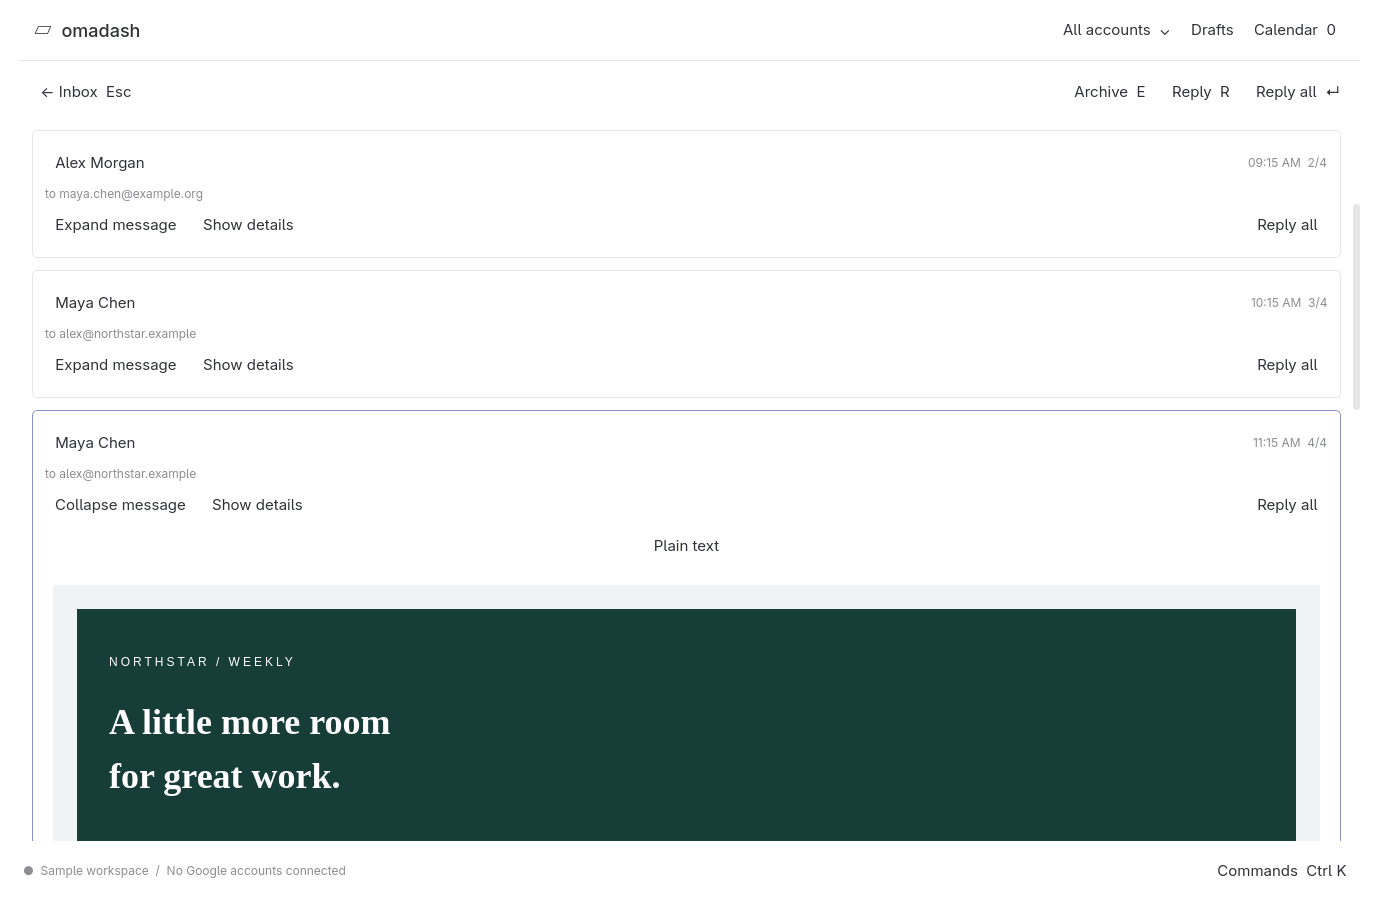
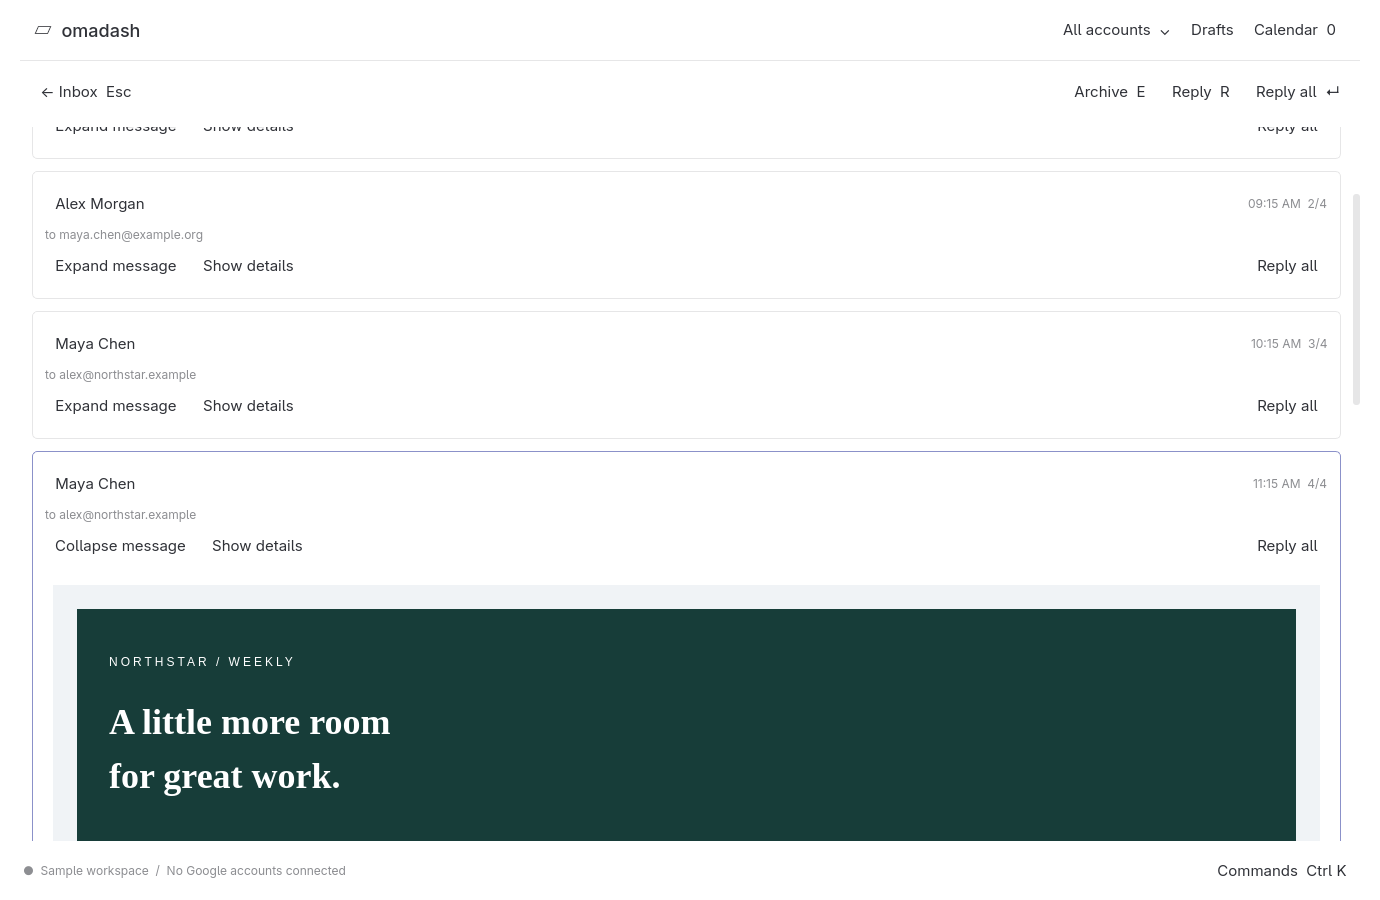
Remove email text and formatted view toggle

diff --git a/src/window.cpp b/src/window.cpp
@@ -64,12 +64,12 @@ void OmadashWindow::refreshInbox(){int old=inbox->currentRow();QString error;row
 void OmadashWindow::switchSplit(int i){if(i<0)return;bool reload=live&&view!="inbox";split=tabs->tabData(i).toString();view="inbox";threadIndex=-1;pages->setCurrentIndex(0);inbox->setCurrentRow(0);refreshInbox();if(reload)loadGoogle();inbox->setFocus();}
 OmadashWindow::Context OmadashWindow::context()const{return {pages->currentIndex(),threadIndex,messageIndex,inbox->currentRow(),view,query,draftId};}
 void OmadashWindow::restore(const Context&c){threadIndex=c.thread;messageIndex=c.message;view=c.view;query=c.query;draftId=c.draft;searchInput->setText(query);refreshInbox();inbox->setCurrentRow(c.row);if(c.page==1)buildReader();else if(c.page==2){clearLayout(composeLayout);auto*backRow=new QHBoxLayout;backRow->addWidget(button("← Back  Esc",[this]{back();}));backRow->addStretch();backRow->addWidget(button("Search mail  /",[this]{search();}));composeLayout->addLayout(backRow);composeLayout->addWidget(composer(),1);pages->setCurrentIndex(2);}else pages->setCurrentIndex(0);}
-void OmadashWindow::openThread(int index){++attachmentGeneration;if(index<0||index>=store.threads.size())return;persistDraft();threadIndex=index;auto t=store.threads[index].toObject();if(!live)t["unread"]=false;store.threads[index]=t;messageIndex=t["messages"].toArray().size()-1;expanded={messageIndex};headers.clear();plainMessages.clear();draftId.clear();buildReader();pages->setCurrentIndex(1);selectMessage(messageIndex);save();}
+void OmadashWindow::openThread(int index){++attachmentGeneration;if(index<0||index>=store.threads.size())return;persistDraft();threadIndex=index;auto t=store.threads[index].toObject();if(!live)t["unread"]=false;store.threads[index]=t;messageIndex=t["messages"].toArray().size()-1;expanded={messageIndex};headers.clear();draftId.clear();buildReader();pages->setCurrentIndex(1);selectMessage(messageIndex);save();}
 void OmadashWindow::selectMessage(int i){if(threadIndex<0)return;int max=store.threads[threadIndex].toObject()["messages"].toArray().size()-1;messageIndex=qBound(0,i,max);for(int n=0;n<cards.size();++n){cards[n]->setProperty("selected",n==messageIndex);cards[n]->style()->unpolish(cards[n]);cards[n]->style()->polish(cards[n]);}if(messageIndex<cards.size()){cards[messageIndex]->setFocus();threadScroll->ensureWidgetVisible(cards[messageIndex],0,20);}}
 void OmadashWindow::buildReader(){persistDraft();toEdit=nullptr;bodyEdit=nullptr;clearLayout(threadLayout);cards.clear();auto*bar=new QHBoxLayout;bar->setContentsMargins(10,12,10,12);bar->addWidget(button(view=="search"?"← Results  Esc":"← Inbox  Esc",[this]{back();}));bar->addStretch();bar->addWidget(button("Archive  E",[this]{change("archive");}));bar->addWidget(button("Reply  R",[this]{compose("reply");}));bar->addWidget(button("Reply all  ↵",[this]{compose("reply-all");}));threadLayout->addLayout(bar);threadScroll=new QScrollArea;threadScroll->setObjectName("threadScroll");threadScroll->setWidgetResizable(true);auto*body=new QWidget;body->setMinimumWidth(0);body->setSizePolicy(QSizePolicy::Ignored,QSizePolicy::Preferred);auto*l=new QVBoxLayout(body);l->setContentsMargins(12,20,12,24);l->setSpacing(12);auto t=store.threads[threadIndex].toObject();auto msgs=t["messages"].toArray();l->addWidget(label(store.accountEmail(t["account"].toString())+"  /  "+QString::number(msgs.size())+" MESSAGES","eyebrow"));auto*h=label(t["subject"].toString(),"heading");h->setWordWrap(true);l->addWidget(h);l->addSpacing(8);l->addWidget(label("↑ ↓ / N P  select a message     Enter  reply all to selection     O  expand","muted"));
  for(int i=0;i<msgs.size();++i){auto m=msgs[i].toObject();auto*card=new QFrame;card->setObjectName("messageCard");card->setProperty("messageIndex",i);card->setFocusPolicy(Qt::StrongFocus);card->setProperty("selected",i==messageIndex);cards<<card;auto*cl=new QVBoxLayout(card);cl->setContentsMargins(12,14,12,15);auto*row=new QHBoxLayout;auto*from=button(m["sender"].toString(),[this,i]{selectMessage(i);});from->setObjectName("messageSender"+QString::number(i));row->addWidget(from);row->addStretch();row->addWidget(label(QDateTime::fromString(m["date"].toString(),Qt::ISODate).toLocalTime().toString("hh:mm AP")+"  "+QString::number(i+1)+"/"+QString::number(msgs.size()),"muted"));cl->addLayout(row);auto*recipients=label("to "+listText(m["to"]),"muted");recipients->setWordWrap(true);cl->addWidget(recipients);auto*actions=new QHBoxLayout;actions->addWidget(button(expanded.contains(i)?"Collapse message":"Expand message",[this,i]{persistDraft();if(expanded.contains(i))expanded.remove(i);else expanded.insert(i);messageIndex=i;buildReader();selectMessage(i);}));auto*details=button(headers.contains(i)?"Hide details":"Show details",[this,i]{persistDraft();if(headers.contains(i))headers.remove(i);else headers.insert(i);messageIndex=i;buildReader();selectMessage(i);});details->setObjectName("headers"+QString::number(i));actions->addWidget(details);actions->addStretch();actions->addWidget(button("Reply all",[this,i]{messageIndex=i;compose("reply-all");}));cl->addLayout(actions);
  if(headers.contains(i)){auto*frame=new QFrame;frame->setObjectName("headerDetails");auto*form=new QFormLayout(frame);form->setRowWrapPolicy(QFormLayout::WrapLongRows);QList<QPair<QString,QString>> fields={{"From",m["from"].toString()},{"Reply-To",m["replyTo"].toString().isEmpty()?"Not specified":m["replyTo"].toString()},{"To",listText(m["to"])},{"Cc",m["cc"].toArray().isEmpty()?"Not specified":listText(m["cc"])},{"Bcc",m["bcc"].isNull()?"Not available in this copy":listText(m["bcc"])},{"Date",QDateTime::fromString(m["date"].toString(),Qt::ISODate).toLocalTime().toString("dddd, MMMM d, yyyy hh:mm:ss AP t")},{"Original date",m["originalDate"].toString(m["date"].toString())},{"Account",store.accountEmail(t["account"].toString())},{"Message-ID",m["messageId"].toString()}};for(auto [name,value]:fields){auto*v=label(value);v->setWordWrap(true);v->setTextInteractionFlags(Qt::TextSelectableByMouse|Qt::TextSelectableByKeyboard);form->addRow(name,v);}cl->addWidget(frame);}
- if(expanded.contains(i)){if(live)loadMessageAssets(threadIndex,i);bool html=!m["html"].toString().isEmpty();if(html){cl->addWidget(button(plainMessages.contains(i)?"Formatted view":"Plain text",[this,i]{if(plainMessages.contains(i))plainMessages.remove(i);else plainMessages.insert(i);buildReader();selectMessage(i);}));}if(html&&!plainMessages.contains(i)){cl->addWidget(new EmailView(m["html"].toString(),nullptr,externalImages.value(t["account"].toString(),false)));}else{auto*text=new QLabel(m["body"].toString());text->setWordWrap(true);text->setMinimumWidth(0);text->setSizePolicy(QSizePolicy::Ignored,QSizePolicy::Preferred);text->setTextFormat(Qt::PlainText);text->setTextInteractionFlags(Qt::TextSelectableByMouse);text->setContentsMargins(8,12,8,15);cl->addWidget(text);}}
+ if(expanded.contains(i)){if(live)loadMessageAssets(threadIndex,i);bool html=!m["html"].toString().isEmpty();if(html){cl->addWidget(new EmailView(m["html"].toString(),nullptr,externalImages.value(t["account"].toString(),false)));}else{auto*text=new QLabel(m["body"].toString());text->setWordWrap(true);text->setMinimumWidth(0);text->setSizePolicy(QSizePolicy::Ignored,QSizePolicy::Preferred);text->setTextFormat(Qt::PlainText);text->setTextInteractionFlags(Qt::TextSelectableByMouse);text->setContentsMargins(8,12,8,15);cl->addWidget(text);}}
  for(auto value:m["attachments"].toArray()){auto a=value.toObject();auto*ar=new QHBoxLayout;auto*name=label(a["name"].toString()+" · "+QString::number(a["size"].toInt()/1024.0,'f',1)+" KB");name->setWordWrap(true);ar->addWidget(name,1);ar->addWidget(button("View",[this,i,a]{attachment(threadIndex,i,a,false);}));ar->addWidget(button("Save…",[this,i,a]{attachment(threadIndex,i,a,true);}));cl->addLayout(ar);}
  if(!draftId.isEmpty()&&store.drafts.contains(draftId)){auto d=store.drafts[draftId].toObject();if(d["sourceThread"].toInt(-1)==threadIndex&&d["sourceMessage"].toInt(-1)==i)cl->addWidget(composer());}l->addWidget(card);}
  l->addStretch();threadScroll->setWidget(body);threadLayout->addWidget(threadScroll,1);pages->setCurrentIndex(1);}

diff --git a/src/emailview.cpp b/src/emailview.cpp
@@ -34,7 +34,7 @@ td,th {min-width:0!important;overflow-wrap:anywhere!important}
 img {max-width:100%!important;height:auto!important;box-sizing:border-box}
 pre {white-space:pre-wrap!important;overflow-wrap:anywhere!important}
 </style></body></html>)";}
-EmailView::EmailView(const QString&html,QWidget*parent,bool images):QWidget(parent),source(html){setProperty("externalImagesEnabled",images);setMinimumWidth(0);setSizePolicy(QSizePolicy::Ignored,QSizePolicy::Preferred);auto*l=new QVBoxLayout(this);l->setContentsMargins(0,8,0,8);view=new QWebEngineView(this);view->setObjectName("htmlEmailBody");view->setContextMenuPolicy(Qt::NoContextMenu);view->setMinimumHeight(220);view->setSizePolicy(QSizePolicy::Expanding,QSizePolicy::Fixed);auto*profile=new QWebEngineProfile(this);profile->setHttpCacheType(QWebEngineProfile::MemoryHttpCache);profile->setPersistentCookiesPolicy(QWebEngineProfile::NoPersistentCookies);auto*gate=new RequestGate(profile);gate->images=images;profile->setUrlRequestInterceptor(gate);connect(profile,&QWebEngineProfile::downloadRequested,profile,[](QWebEngineDownloadRequest*r){r->cancel();});auto*page=new MailPage(profile,view);view->setPage(page);auto*s=page->settings();for(auto flag:{QWebEngineSettings::JavascriptEnabled,QWebEngineSettings::JavascriptCanOpenWindows,QWebEngineSettings::JavascriptCanAccessClipboard,QWebEngineSettings::LocalStorageEnabled,QWebEngineSettings::LocalContentCanAccessFileUrls,QWebEngineSettings::PluginsEnabled,QWebEngineSettings::FullScreenSupportEnabled,QWebEngineSettings::ScreenCaptureEnabled,QWebEngineSettings::NavigateOnDropEnabled})s->setAttribute(flag,false);s->setAttribute(QWebEngineSettings::LocalContentCanAccessRemoteUrls,true);s->setAttribute(QWebEngineSettings::ShowScrollBars,true);connect(page,&QWebEnginePage::contentsSizeChanged,this,[this](QSizeF size){view->setFixedHeight(qBound(220,int(size.height())+8,12000));});connect(view,&QWebEngineView::loadFinished,this,[this,l](bool ok){if(!ok){auto*note=new QLabel("Formatted view could not load. Use Plain text above to read this message.");note->setWordWrap(true);l->addWidget(note);}});l->addWidget(view);render(images);}
+EmailView::EmailView(const QString&html,QWidget*parent,bool images):QWidget(parent),source(html){setProperty("externalImagesEnabled",images);setMinimumWidth(0);setSizePolicy(QSizePolicy::Ignored,QSizePolicy::Preferred);auto*l=new QVBoxLayout(this);l->setContentsMargins(0,8,0,8);view=new QWebEngineView(this);view->setObjectName("htmlEmailBody");view->setContextMenuPolicy(Qt::NoContextMenu);view->setMinimumHeight(220);view->setSizePolicy(QSizePolicy::Expanding,QSizePolicy::Fixed);auto*profile=new QWebEngineProfile(this);profile->setHttpCacheType(QWebEngineProfile::MemoryHttpCache);profile->setPersistentCookiesPolicy(QWebEngineProfile::NoPersistentCookies);auto*gate=new RequestGate(profile);gate->images=images;profile->setUrlRequestInterceptor(gate);connect(profile,&QWebEngineProfile::downloadRequested,profile,[](QWebEngineDownloadRequest*r){r->cancel();});auto*page=new MailPage(profile,view);view->setPage(page);auto*s=page->settings();for(auto flag:{QWebEngineSettings::JavascriptEnabled,QWebEngineSettings::JavascriptCanOpenWindows,QWebEngineSettings::JavascriptCanAccessClipboard,QWebEngineSettings::LocalStorageEnabled,QWebEngineSettings::LocalContentCanAccessFileUrls,QWebEngineSettings::PluginsEnabled,QWebEngineSettings::FullScreenSupportEnabled,QWebEngineSettings::ScreenCaptureEnabled,QWebEngineSettings::NavigateOnDropEnabled})s->setAttribute(flag,false);s->setAttribute(QWebEngineSettings::LocalContentCanAccessRemoteUrls,true);s->setAttribute(QWebEngineSettings::ShowScrollBars,true);connect(page,&QWebEnginePage::contentsSizeChanged,this,[this](QSizeF size){view->setFixedHeight(qBound(220,int(size.height())+8,12000));});connect(view,&QWebEngineView::loadFinished,this,[this,l](bool ok){if(!ok){auto*note=new QLabel("Formatted content could not load.");note->setWordWrap(true);l->addWidget(note);}});l->addWidget(view);render(images);}
 void EmailView::render(bool images){view->setHtml(document(source,images),QUrl("about:blank"));}
 
 EmailView::~EmailView(){delete view;}

diff --git a/src/window.h b/src/window.h
@@ -40,6 +40,6 @@ std::unique_ptr<LocalCache> cache;Keyring*keyring=nullptr;QMap<QString,MailSync*
  void loadMessageAssets(int thread,int message);
  void googleSetup();void connectGoogle(bool modify=true,bool current=false);void markUnread();void enterGoogle();void leaveGoogle();void loadGoogle(bool more=false);void executeSearch();void loadCalendar();
  QString account="all",split="important",view="inbox",query,draftId,sequence;
- bool dark=false,calendarVisible=false;int threadIndex=-1,messageIndex=0;QVector<int> rows;QSet<int> expanded,headers,plainMessages;QVector<Context> navigation;
+ bool dark=false,calendarVisible=false;int threadIndex=-1,messageIndex=0;QVector<int> rows;QSet<int> expanded,headers;QVector<Context> navigation;
  QListWidget*inbox=nullptr;QTabBar*tabs=nullptr,*accountTabs=nullptr;QLabel*count=nullptr,*heading=nullptr,*status=nullptr;QPushButton*accountButton=nullptr;QLineEdit*searchInput=nullptr;QLabel*searchError=nullptr;QWidget*searchBar=nullptr;QStackedWidget*pages=nullptr;QWidget*inboxPage=nullptr,*threadPage=nullptr,*composePage=nullptr;QScrollArea*threadScroll=nullptr;QVector<QFrame*>cards;QFrame*calendar=nullptr,*commandPanel=nullptr;QVBoxLayout*calendarLayout=nullptr,*commandLayout=nullptr,*threadLayout=nullptr,*composeLayout=nullptr;QLineEdit*toEdit=nullptr,*ccEdit=nullptr,*bccEdit=nullptr,*subjectEdit=nullptr;QTextEdit*bodyEdit=nullptr;QComboBox*fromEdit=nullptr;QTimer*saveTimer=nullptr;QDate calendarDate=QDate(2026,9,14);bool filling=false;
 };
